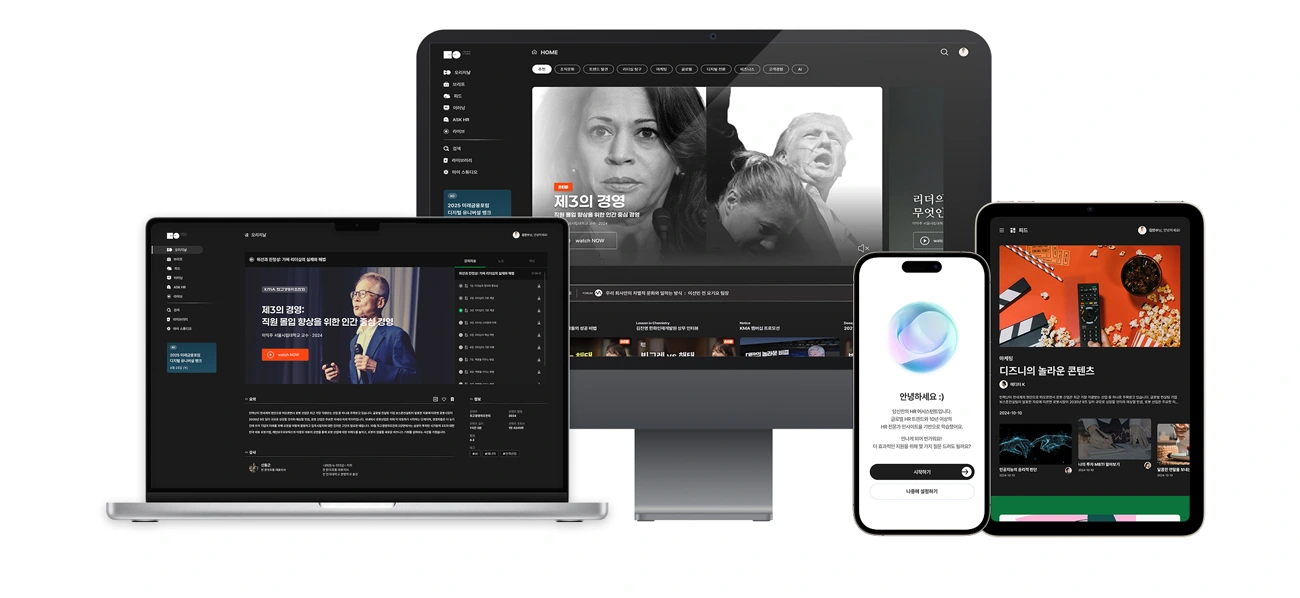
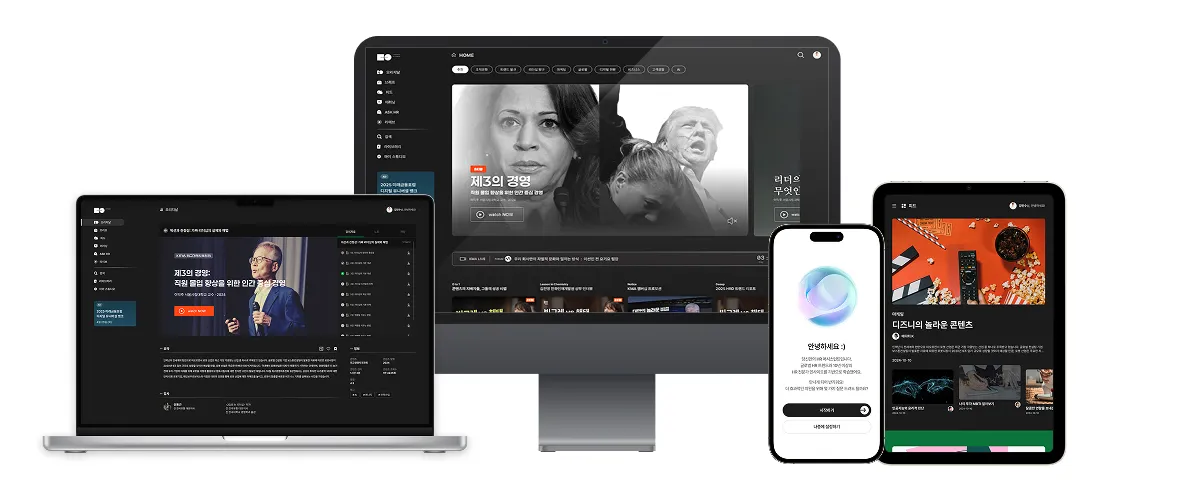
lxp edited

diff --git a/style.css b/style.css
@@ -176,7 +176,7 @@ a, button {font-family: "SUIT Variable";}
 .exp-hr .hr-inner .ti-wrap .ti span {background: linear-gradient(90deg, #0381FF 0%, #03FFD3 81.5%); background-clip: text; -webkit-background-clip: text; -webkit-text-fill-color: transparent;}
 .exp-hr .hr-inner .ti-wrap .txt {position: relative; font-size: 16px; color: #b3b3b3; line-height: 24px; font-style: normal; letter-spacing: -0.48px; margin-top: 20px; }
 .exp-hr .hr-inner .btn-wrap {position: relative; width: auto; display: grid; justify-content: start; align-content: start; gap: 10px; margin-bottom: clamp(70px, 10vh, 150px);}
-.exp-hr .hr-inner .btn-wrap .btn {position: relative; width: auto; height: 56px; display: flex; align-items: center; background: none; border: none;  text-align: left; padding: 0; padding-left: 50px; margin: 0; box-sizing: border-box; cursor: pointer; inline-size: fit-content; transition: all .3s; }
+.exp-hr .hr-inner .btn-wrap .btn {position: relative; width: auto; height: 56px; display: flex; align-items: center; background: none; border: none;  text-align: left; padding: 0; padding-left: 70px; margin: 0; box-sizing: border-box; cursor: pointer; inline-size: fit-content; transition: all .3s; }
 .exp-hr .hr-inner .btn-wrap .btn p {font-size: 20px; color: #787878; font-style: normal; line-height: 24px; font-weight: 600; letter-spacing: -0.48px; z-index: 2;} 
 .exp-hr .hr-inner .btn-wrap .btn .arrow {position: absolute; left: 20px; z-index: 2;}
 .exp-hr .hr-inner .btn-wrap .btn::before {content: ''; position: absolute; width: 48px; height: 48px; left: 0; background: #d9d9d9; border-radius: 40px; transition: all .3s;  z-index: 0;}
@@ -205,7 +205,7 @@ a, button {font-family: "SUIT Variable";}
 
 .lxp-inner.right {position: absolute; top: 0; width: 100%; height: 100vh; will-change: transform; z-index: 5;}
 .lxp-inner.right video {position: absolute; width: 600px; top: 50%; left: 50%; transform: translate(-50%, -50%); object-fit: cover;}
-.lxp-inner.right .txt-wrap {position: absolute; left: 165px; bottom: 165px; opacity: 0; transition: none;}
+.lxp-inner.right .txt-wrap {position: absolute; left: clamp(92px, 6vw, 165px); bottom: clamp(92px, 6vw, 165px); opacity: 0; transition: none;}
 .lxp-inner.right .txt-wrap h3 {font-size: 36px; font-style: normal; font-weight: 600; line-height: 50px; color: #fff; letter-spacing: -1.08px;}
 .lxp-inner.right .txt-wrap h3 span {color: #03ffd3;}
 .lxp-inner.right .txt-wrap .txt {font-size: 16px; font-style: normal; font-weight: 500; line-height: 24px; color: #fff; letter-spacing: -0.48px; margin-top: 45px;}
@@ -227,13 +227,13 @@ a, button {font-family: "SUIT Variable";}
 .lxp-cont .grid .txt-wrap .txt span {opacity: 0;}
 .lxp-cont .grid .txt-wrap .txt span:nth-child(2) {position: absolute; opacity: 0;}
 
-.lxp-cont .grid video {position: relative; width: 100%; margin-top: 50px; border-radius: 30px; opacity: 0;}
+.lxp-cont .grid video {position: relative; width: 80vh; max-width: 980px; margin-top: 50px; border-radius: 30px; opacity: 0;}
 
-.lxp-cont .grid .item-wrap {position: absolute; width: 100%; height: auto; top: 50%; left: 0; transform: translate(0, -25%); display: flex; justify-content: space-between; align-items: start; gap:0; transition: all .3s ease; opacity: 0; }
+.lxp-cont .grid .item-wrap {position: absolute; width: 80vh; max-width: 730px; height: auto; top: 50%; left: 0; transform: translate(0, -25%); display: flex; justify-content: space-between; align-items: start; gap:0; transition: all .3s ease; opacity: 0; }
 .lxp-cont .grid .item-wrap img {width: calc(50% - 25px); border-radius: 30px;}
 
 .lxp-area .mo-grid {display: none;}
-.lxp-area .mo-grid.grid1 {display: block;}
+.lxp-area .mo-grid.grid1 {display: block; display: grid; align-content: center;}
 
 .mo-lxp {display: none;}
 /* lxp-area// */

diff --git a/index.html b/index.html
@@ -214,7 +214,7 @@
         </div>
         <div class="item item2" style="background-color: #E2EFDA;">
           <figure>
-            <img src="studio_images/brief_item2.webp" alt="stud.io original">
+            <img src="studio_images/brief_item3.webp" alt="stud.io original">
           </figure>
           <div class="item-txt-wrap">
             <h3>m.learning</h3>
@@ -226,7 +226,7 @@
         </div>
         <div class="item item3" style="background-color: #E2EFDA;">
           <figure>
-            <img src="studio_images/brief_item2.webp" alt="stud.io original">
+            <img src="studio_images/brief_item4.webp" alt="stud.io original">
           </figure>
           <div class="item-txt-wrap">
             <h3>10분 리뷰</h3>
@@ -240,7 +240,7 @@
       <div class="grid grid2">
         <div class="item item4" style="background-color: #C4D2ED;">
           <figure>
-            <img src="studio_images/brief_item4.webp" alt="stud.io original">
+            <img src="studio_images/brief_item2.webp" alt="stud.io original">
           </figure>
           <div class="item-txt-wrap">
             <h3>경영의 팁</h3>

diff --git a/scroll.js b/scroll.js
@@ -111,8 +111,8 @@ if (window.matchMedia("(min-width: 768px)").matches) {
         .timeline({
           scrollTrigger: {
             trigger: ".original-area",
-            start: "top top",
-            end: "+=200", // 200px 안에서 이동 완료
+            start: "top+=80 top",
+            end: "+=700", // 200px 안에서 이동 완료
             scrub: 1,
           },
         })
@@ -132,6 +132,9 @@ if (window.matchMedia("(min-width: 768px)").matches) {
           //markers: true,
         },
       });
+
+      // 🔹 타임라인 초반에 딜레이 추가
+      tl.to({}, { duration: 0.3 });
 
       // 1⃣ 카드 펼치기 (초반)
       cards.forEach((card, i) => {
